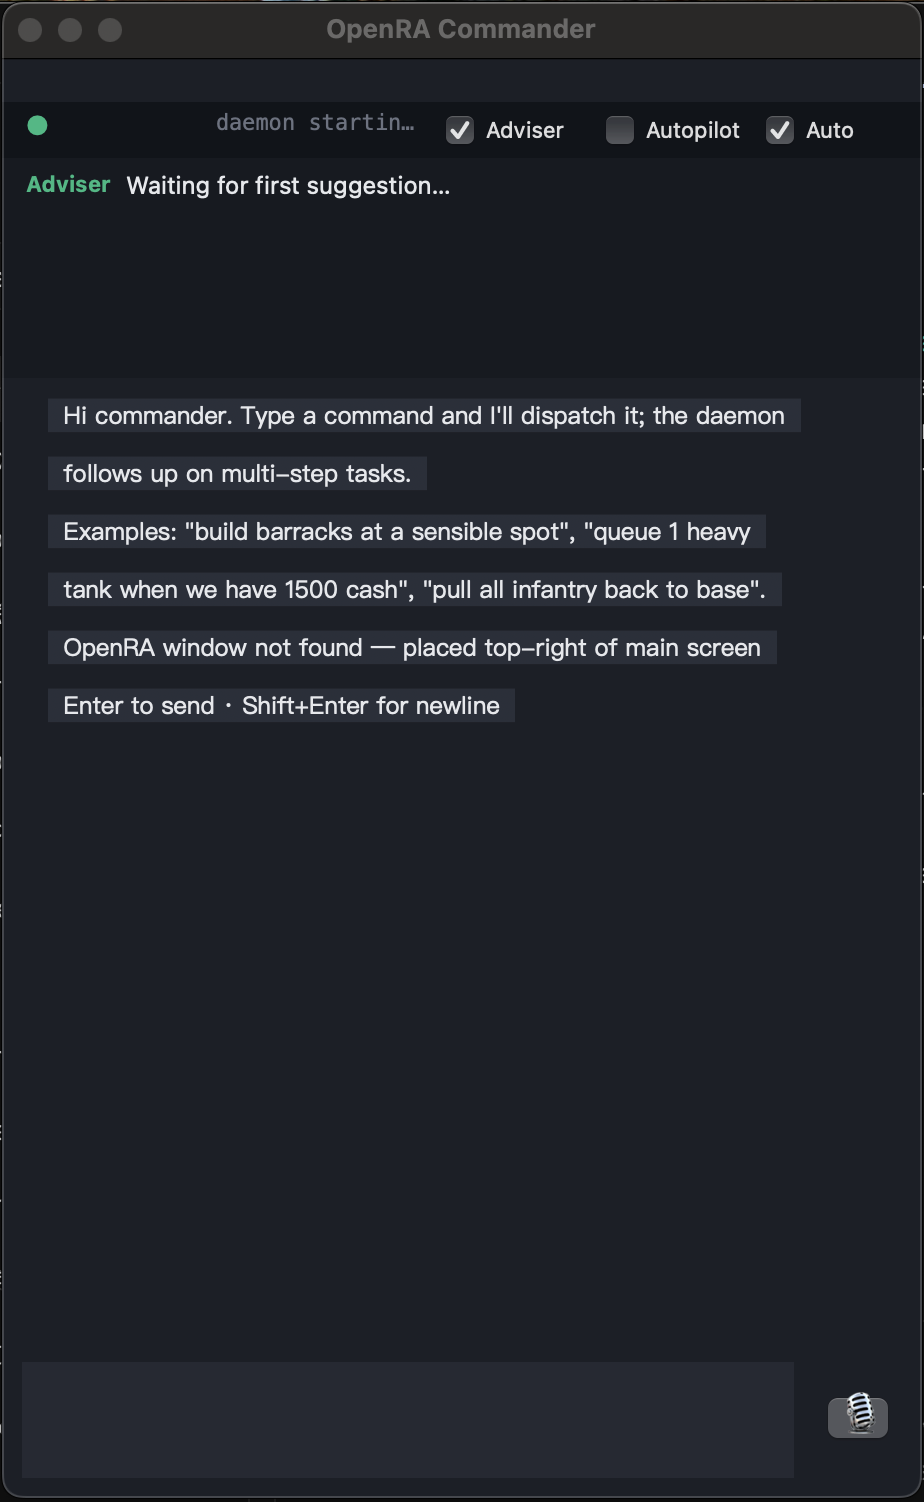
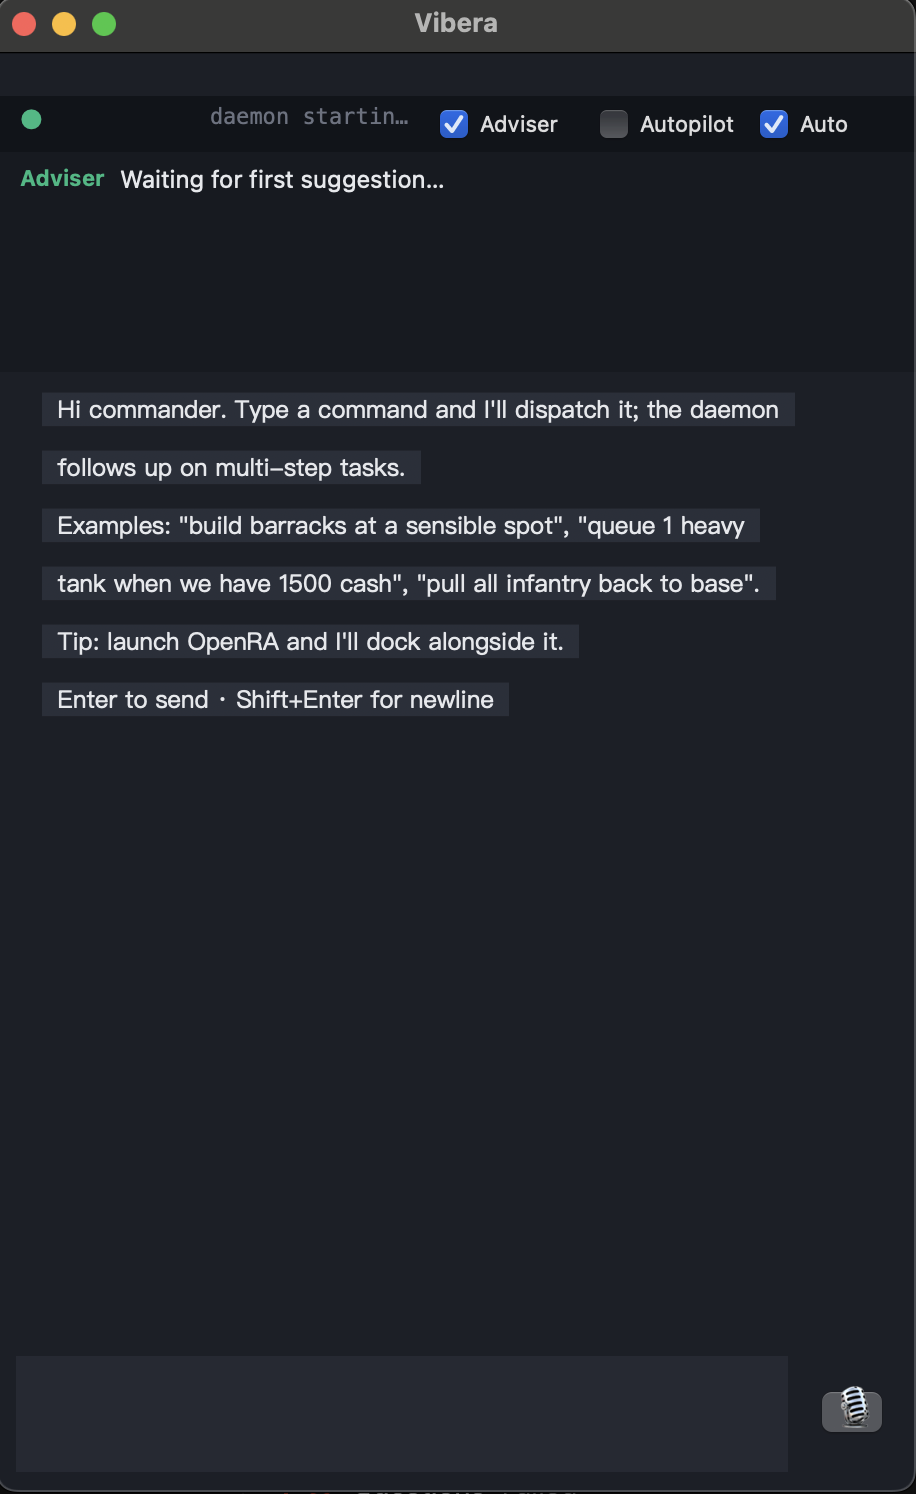
Cleaner floating-chat screenshot; soften 'OpenRA not running' notice
The replacement screenshot is taken with the renamed window title
('Vibera' instead of the legacy 'OpenRA Commander') and a softer
welcome banner: 'Tip: launch OpenRA and I'll dock alongside it.'
instead of the error-shaped 'OpenRA window not found' message. Reads
as informational rather than broken to a first-time viewer.

diff --git a/vibera/floating_chat.py b/vibera/floating_chat.py
@@ -632,7 +632,7 @@ class ChatController(NSObject):
             gx, gy, gw, gh = game
             loc = f"OpenRA window @ ({gx},{gy}) {gw}x{gh}"
         else:
-            loc = "OpenRA window not found — placed top-right of main screen"
+            loc = "Tip: launch OpenRA and I'll dock alongside it."
         self.__appendBot(
             "Hi commander. Type a command and I'll dispatch it; the daemon\n"
             "follows up on multi-step tasks.\n"
